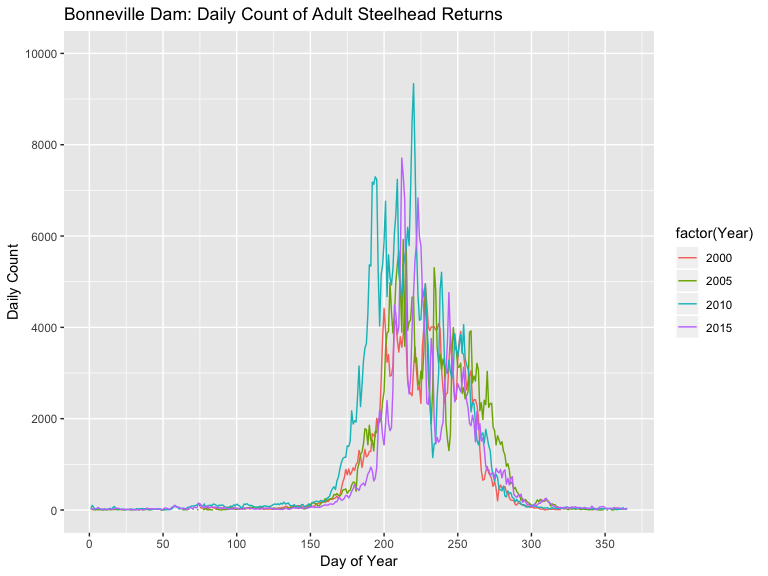
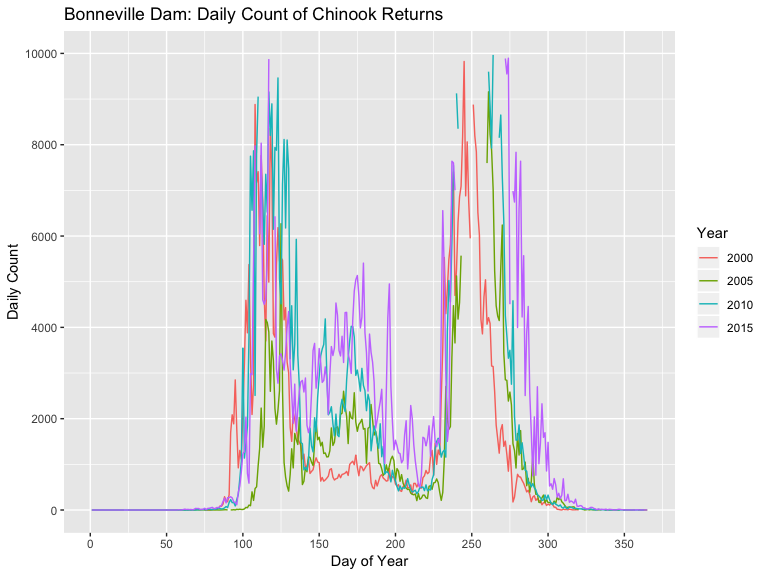
Plots Chinook and Coho, rather than Steelhead.

diff --git a/docs/columbia-river-adult-salmon-returns.md b/docs/columbia-river-adult-salmon-returns.md
@@ -1,7 +1,15 @@
 Columbia River Adult Salmon Returns: Exploratory Data Analysis
 ================
-[Jim Tyhurst](https://www.jimtyhurst.com/#home)
-2019-02-26
+[Jim Tyhurst](https://www.jimtyhurst.com/)
+2019-03-07
+
+  - [Configuration](#configuration)
+  - [Data preparation](#data-preparation)
+  - [Plots for Bonneville Dam for years 2005 and
+    2015](#plots-for-bonneville-dam-for-years-2005-and-2015)
+  - [Plots for Bonneville Dam from 1990 to
+    2018](#plots-for-bonneville-dam-from-1990-to-2018)
+  - [References](#references)
 
 🔻 *Work in Process* … 🔺
 
@@ -39,8 +47,7 @@ page:
 After downloading each file of data, the final two lines of each file
 needed to be deleted, because they were annotations that were *not* part
 of the data to be analyzed. Then I changed the name of the files to
-match this
-> pattern:
+match:
 
 > fpc-salmon-{passage\_reporting\_site\_abbreviation}-{year}0101-{year}1231.csv
 
@@ -57,8 +64,8 @@ March 15 to November 15 for years up to 2001. Starting in 2002,
 observations were made every day during the year.
 
 🔻 *Open Issue*: There are quite a few daily count values that are
-negative. What does that mean? More fish went downstream through the
-passage reporting site than upstream? I looked through the
+negative. What does that mean? Maybe more fish went downstream through
+the passage reporting site than upstream? I looked through the
 [metadata](http://www.fpc.org/documents/metadata/FPC_Adult_Metadata.html),
 but I did not see an explanation for these negative field values. 🔺
 
@@ -95,8 +102,8 @@ are so much bigger than for 2005.
 ## Plots for Bonneville Dam from 1990 to 2018
 
 Each year of data is in one CSV file in a subdirectory of `inst/extdata`
-with a separate directory for each passage reporting site. Let’s look at
-data for steelhead salmon first:
+with a separate directory for each passage reporting site. The data is
+not too big, so we read all the data into a single data.frame:
 
 ``` r
 first_year <- 1990
@@ -105,62 +112,111 @@ passage_reporting_site_name <- "Bonneville Dam"
 passage_reporting_site_code <- "BON"
 
 # Concatenates the files into a single tibble.
-steelhead <- first_year:last_year %>% 
+multi_year <- first_year:last_year %>% 
   purrr::map(function(year) {get_fpc_data(year, passage_reporting_site_code, data_directory)}) %>% 
   purrr::reduce(function(x, y) {dplyr::bind_rows(x, y)}) %>% 
-  dplyr::select(Dam, Year, DayOfYear, Steelhead, Date)
-dim(steelhead)
-#> [1] 9136    5
+  dplyr::select(
+    Dam, Year, DayOfYear, 
+    ChinookAdult, ChinookJack, Chinook, 
+    CohoAdult, CohoJack, Coho, 
+    Steelhead, UnclippedSteelhead, 
+    Sockeye, Pink, Chum, 
+    Date
+  )
+dim(multi_year)
+#> [1] 9136   15
 ```
 
-We plot a few years to get a feel for the distribution:
+We plot a few years for Chinook to get a feel for the distribution:
 
 ``` r
-steelhead %>% 
+multi_year %>% 
   dplyr::filter(Year %in% c(2000, 2005, 2010, 2015)) %>% 
+  mutate(Year = factor(Year)) %>% 
   ggplot(aes(DayOfYear)) +
-  geom_line(aes(y = Steelhead, color = factor(Year))) +
+  geom_line(aes(y = Chinook, color = Year)) +
   ggtitle(
-    glue("{passage_reporting_site}: Daily Count of Adult {species} Returns",
+    glue("{passage_reporting_site}: Daily Count of {species} Returns",
          passage_reporting_site = passage_reporting_site_name,
-         species = "Steelhead")) +
+         species = "Chinook")) +
+  scale_x_continuous(name = "Day of Year", breaks = seq(0, 350, by = 50)) +
+  scale_y_continuous(name = "Daily Count", limits = c(0, 10000), breaks = seq(0, 10000, by = 2000))
+```
+
+<img src="columbia-river-adult-salmon-returns_files/figure-gfm/unnamed-chunk-6-1.png" style="display: block; margin: auto;" />
+
+Those 4 years all have very similar distributions for Chinook. Let’s
+look at the same years for Coho:
+
+``` r
+multi_year %>% 
+  dplyr::filter(Year %in% c(2000, 2005, 2010, 2015)) %>% 
+  mutate(Year = factor(Year)) %>% 
+  ggplot(aes(DayOfYear)) +
+  geom_line(aes(y = Coho, color = Year)) +
+  ggtitle(
+    glue("{passage_reporting_site}: Daily Count of {species} Returns",
+         passage_reporting_site = passage_reporting_site_name,
+         species = "Coho")) +
   scale_x_continuous(name = "Day of Year", breaks = seq(0, 350, by = 50)) +
   scale_y_continuous(name = "Daily Count", limits = c(0, 10000), breaks = seq(0, 10000, by = 2000))
 #> Warning: Removed 1 rows containing missing values (geom_path).
 ```
 
-<img src="columbia-river-adult-salmon-returns_files/figure-gfm/unnamed-chunk-6-1.png" style="display: block; margin: auto;" />
+<img src="columbia-river-adult-salmon-returns_files/figure-gfm/unnamed-chunk-7-1.png" style="display: block; margin: auto;" />
 
-I am surprised that 2010 and 2015 have higher peaks than 2000 and 2005,
-because I thought that salmon numbers were descreasing. Let’s look more
-closely at the yearly trend. In the next plot, we sum the daily
-observations, in order to compare total quantity for the whole year.
+This plot shows much more variation across years for Coho, as compared
+to the previous plot for Chinook.
+
+Let’s look more closely at the yearly trend. In the next plot, we sum
+the daily observations, in order to compare total quantity for the whole
+year.
 
 Since years before 2002 only collected data from March 15 to November
 15, we exclude observations from outside those days from 2002 and later,
-in order to be comparing similar sets of data.
+in order to be comparing similar sets of data across all years.
 
 🔻 *To Do*: Fix the following calculation to work for leap years. 🔺
 
 ``` r
 first_observation_day <- 74  # March 15, except for leap year
 last_observation_day <- 319  # Nov 15, except for leap year
-steelhead  %>% 
+multi_year  %>% 
   dplyr::filter(lubridate::yday(Date) >= first_observation_day,
                 lubridate::yday(Date) <= last_observation_day) %>% 
   dplyr::group_by(Year) %>% 
-  dplyr::mutate(Quantity = sum(Steelhead)) %>%
-  ggplot(aes(Year, Quantity)) +
-  geom_bar(stat = "identity") +
+  dplyr::mutate(
+    ChinookCount = sum(Chinook),
+    CohoCount = sum(Coho)
+  ) %>%
+  dplyr::select(Year, Chinook = ChinookCount, Coho = CohoCount) %>% 
+  tidyr::gather(`Chinook`, `Coho`, key = "species", value = "Returns") %>% 
+  unique() %>% 
+  mutate(Species = factor(species)) %>% 
+  ggplot(aes(Year, Returns, fill = Species)) +
+  geom_bar(stat = "identity", position = "dodge") +
+  scale_fill_discrete(
+    name = "Species",
+    breaks=c("Chinook", "Coho"),
+    labels=c("Chinook", "Coho")
+  ) +
   ggtitle(
-    glue("{passage_reporting_site}: Total Adult {species} Returns",
-         passage_reporting_site = passage_reporting_site_name,
-         species = "Steelhead")) +
+    glue("{passage_reporting_site}: Total Returns",
+         passage_reporting_site = passage_reporting_site_name)
+  ) +
   scale_x_continuous(name = "Year", breaks = seq(1990, 2015, by = 5)) +
   scale_y_continuous(name = "Returns Counted", labels = function(x){format(x, scientific = FALSE, big.mark = ",")})
 ```
 
-<img src="columbia-river-adult-salmon-returns_files/figure-gfm/unnamed-chunk-7-1.png" style="display: block; margin: auto;" />
+<img src="columbia-river-adult-salmon-returns_files/figure-gfm/unnamed-chunk-8-1.png" style="display: block; margin: auto;" />
+
+We see that the total returns for the two species are *not* strongly
+correlated.
+
+🔻 *To Do*: Need to calculate quantitative measure of (lack of)
+correlation between the total returns for the two species. 🔺
+
+🔻 *To Do*: Add other species to the plot. Change to a line plot? 🔺
 
 🔻 *To Do*: Extend this plot to earlier years. 🔺
 

diff --git a/docs/nuseds-adult-salmon-escapement-data.md b/docs/nuseds-adult-salmon-escapement-data.md
@@ -1,7 +1,13 @@
 NuSEDS Adult Salmon Escapement Data: Exploratory Data Analysis
 ================
 [Jim Tyhurst](https://www.jimtyhurst.com/)
-2019-02-26
+2019-03-07
+
+  - [Configuration](#configuration)
+  - [New Salmon Escapement Database System
+    (NuSEDS)](#new-salmon-escapement-database-system-nuseds)
+  - [MAX\_ESTIMATE](#max_estimate)
+  - [References](#references)
 
 🔻 *Work in Process* … 🔺
 
